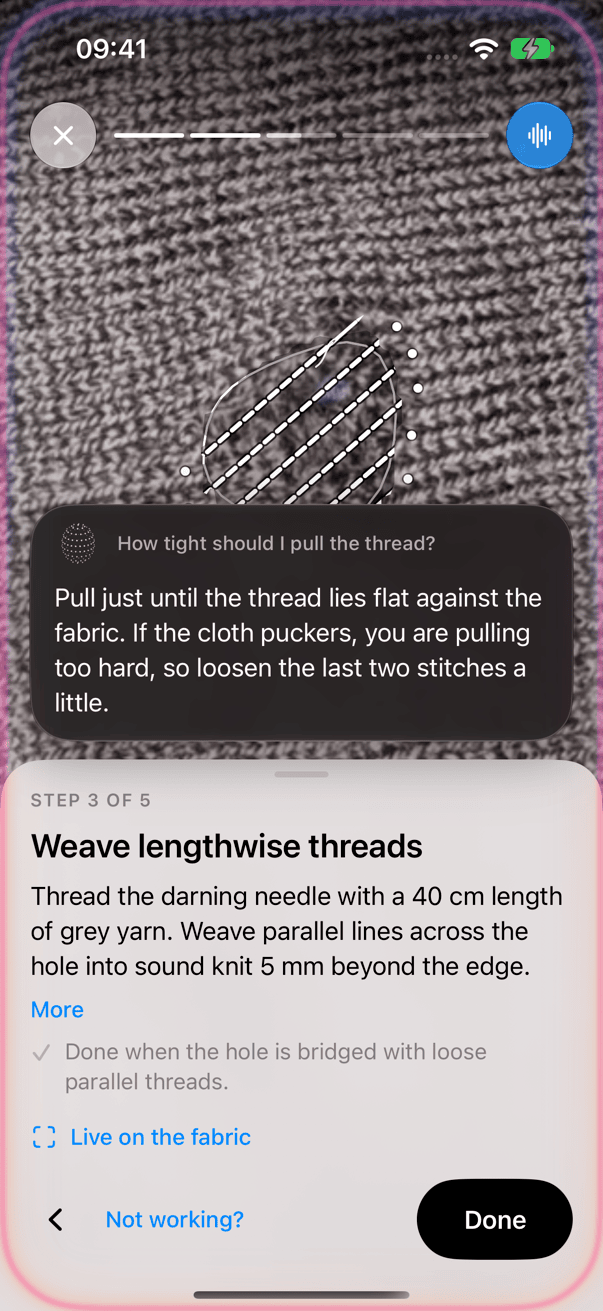
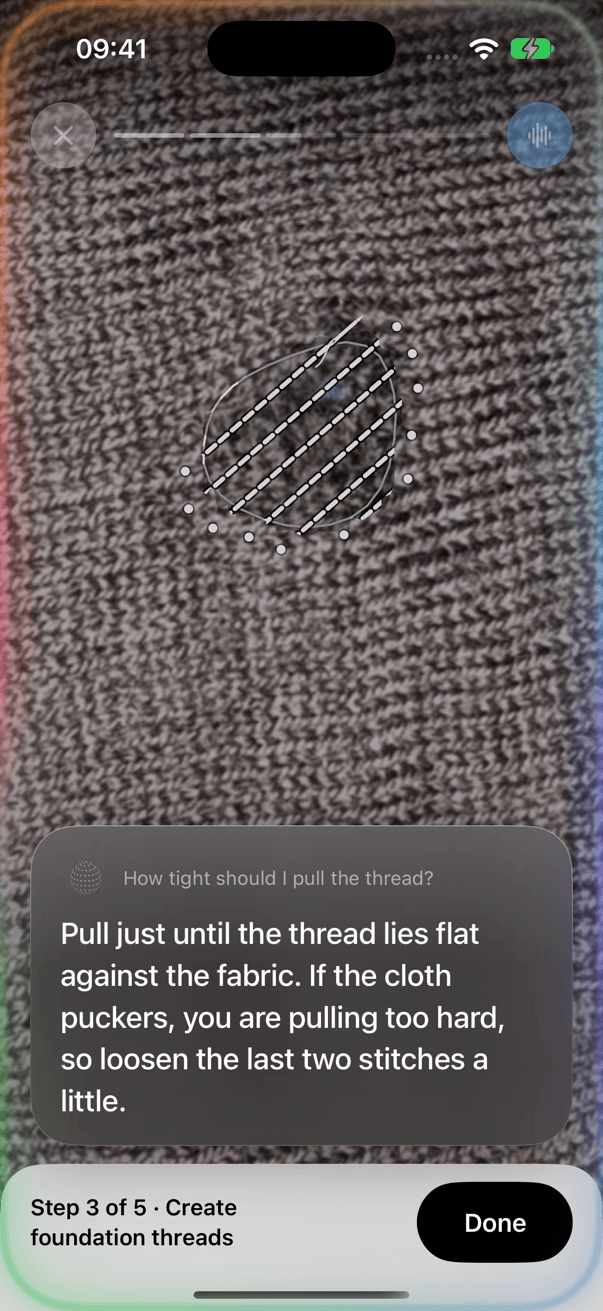
ios: hands-free collapses the guide panel into an opaque bar and keeps the voice UI clear of the work area (VoiceLayout)

diff --git a/ios/RepairAssistant/Views/GuideView.swift b/ios/RepairAssistant/Views/GuideView.swift
@@ -32,7 +32,7 @@ struct GuideView: View {
                                 .frame(width: geo.size.width, height: geo.size.height).clipped()
                                 .overlay(alignment: .topTrailing) { previewTag.padding(.top, geo.safeAreaInsets.top + 112).padding(.trailing, Theme.margin) }
                         } else {
-                            photo(step, r, size: geo.size)
+                            photo(step, r, geo: geo)
                         }
                     }
                     .id("\(step.n)-\(showMuse)")
@@ -44,16 +44,25 @@ struct GuideView: View {
                             .frame(height: geo.safeAreaInsets.top + 90).allowsHitTesting(false)
                         Spacer(minLength: 0)
                     }
-                    panel(step, r, bottomInset: geo.safeAreaInsets.bottom, maxHeight: geo.size.height * 0.7)
-                        .id(step.n)
-                        .transition(.opacity)
-                        .opacity(handsFree.isActive ? 0.4 : 1)
-                        .offset(y: handsFree.isActive ? 14 : 0)
-                        .animation(Theme.spring, value: handsFree.isActive)
-                        .overlay(alignment: .top) {
-                            HandsFreeCapsule(model: handsFree, maxHeight: geo.size.height * 0.3)
-                                .alignmentGuide(VerticalAlignment.top) { $0[.bottom] + 12 }
+                    Group {
+                        if handsFree.isActive {
+                            compactBar(step, bottomInset: geo.safeAreaInsets.bottom)
+                                .transition(.move(edge: .bottom).combined(with: .opacity))
+                        } else {
+                            panel(step, r, bottomInset: geo.safeAreaInsets.bottom, maxHeight: geo.size.height * 0.7)
+                                .id(step.n)
+                                .transition(.opacity)
                         }
+                    }
+                    .animation(Theme.spring, value: handsFree.isActive)
+                    if handsFree.isActive {
+                        let lay = voicePlacement(r, geo: geo)
+                        HandsFreeCapsule(model: handsFree, maxHeight: lay.voice.height)
+                            .frame(width: geo.size.width, alignment: .bottom)
+                            .frame(height: lay.voice.height, alignment: .bottom)
+                            .padding(.bottom, geo.size.height - lay.voice.maxY)
+                            .transition(.opacity)
+                    }
                     topArea(step, hasStepImage: stepPhoto != nil, topInset: geo.safeAreaInsets.top)
                         .frame(maxHeight: .infinity, alignment: .top)
                         .opacity(handsFree.isActive ? 0.4 : 1)
@@ -149,10 +158,60 @@ struct GuideView: View {
 
     // MARK: Photo
 
-    private func photo(_ step: GuideStep, _ r: AnalyzeResponse, size: CGSize) -> some View {
-        Group {
+    private static let barContentHeight: CGFloat = 50
+    private static let baseAnchor: CGFloat = 0.33
+
+    private func barHeight(_ geo: FullGeo) -> CGFloat { Self.barContentHeight + 14 + max(geo.safeAreaInsets.bottom, 12) }
+
+    /// The work area on screen at the normal anchor: damage bounds scaled by the zoom, padded for stitch overlay and labels.
+    private func workRect(_ r: AnalyzeResponse, size: CGSize) -> CGRect {
+        let boxes = r.segments.filter(\.isDamage).compactMap(\.normalizedBounds).filter { $0.height > 0 }
+        let cy = size.height * Self.baseAnchor
+        guard let img = flow.photo, let first = boxes.first else { return CGRect(x: 0, y: cy - 90, width: size.width, height: 180) }
+        let u = boxes.dropFirst().reduce(first) { $0.union($1) }
+        let zoom = MarkedPhoto<EmptyView>.targetZoom(image: img, focus: DamageFocus.region(for: r.segments), container: size)
+        let fill = AspectFit.fillSize(content: img.size, in: size)
+        let h = u.height * fill.height * zoom, w = u.width * fill.width * zoom
+        let pad: CGFloat = 44
+        return CGRect(x: (size.width - w) / 2 - pad, y: cy - h / 2 - pad, width: w + 2 * pad, height: h + 2 * pad)
+    }
+
+    private func voicePlacement(_ r: AnalyzeResponse, geo: FullGeo) -> VoiceLayout.Placement {
+        let H = geo.size.height
+        let vh: CGFloat = handsFree.answer != nil ? min(H * 0.34, 270) : 80
+        return VoiceLayout.place(container: geo.size, work: workRect(r, size: geo.size), topReserved: geo.safeAreaInsets.top + 70,
+                                 barTop: H - barHeight(geo), voiceHeight: vh)
+    }
+
+    private func photoAnchor(_ r: AnalyzeResponse, geo: FullGeo) -> CGFloat {
+        let size = geo.size
+        guard handsFree.isActive else { return Self.baseAnchor }
+        return Self.baseAnchor - voicePlacement(r, geo: geo).photoShift / max(size.height, 1)
+    }
+
+    /// Collapsed panel while hands-free is on: opaque, same material, step line and Done only.
+    private func compactBar(_ step: GuideStep, bottomInset: CGFloat) -> some View {
+        let last = index == steps.count - 1
+        return HStack(spacing: 12) {
+            Text("Step \(index + 1) of \(steps.count) · \(step.title)")
+                .font(.subheadline.weight(.semibold)).foregroundStyle(Theme.ink)
+                .lineLimit(2).multilineTextAlignment(.leading)
+            Spacer(minLength: 8)
+            Button { advance(last: last) } label: { Text(last ? "Finish" : "Done").lineLimit(1) }
+                .buttonStyle(PrimaryButtonStyle(kind: .primary))
+                .frame(width: 104)
+        }
+        .frame(height: Self.barContentHeight)
+        .padding(.horizontal, Theme.margin).padding(.top, 14).padding(.bottom, max(bottomInset, 12))
+        .frame(maxWidth: .infinity)
+        .background(.regularMaterial, in: UnevenRoundedRectangle(topLeadingRadius: 28, topTrailingRadius: 28, style: .continuous))
+    }
+
+    private func photo(_ step: GuideStep, _ r: AnalyzeResponse, geo: FullGeo) -> some View {
+        let size = geo.size
+        return Group {
             if let img = flow.photo {
-                MarkedPhoto(image: img, segments: r.segments, mode: .guide, showLabels: false, focus: DamageFocus.region(for: r.segments), zoomable: false, anchorY: 0.33) { sz in
+                MarkedPhoto(image: img, segments: r.segments, mode: .guide, showLabels: false, focus: DamageFocus.region(for: r.segments), zoomable: false, anchorY: photoAnchor(r, geo: geo)) { sz in
                     StepOverlay(step: step, response: r, size: sz, aspect: img.size.width / max(img.size.height, 1), darningPhase: darningPhase(for: step, in: r))
                 }
             } else { Color.black }

diff --git a/ios/RepairAssistant/DesignSystem/ThinkingOrb.swift b/ios/RepairAssistant/DesignSystem/ThinkingOrb.swift
@@ -138,70 +138,44 @@ enum OrbEngine {
     }
 }
 
-/// Luminous dotted orb: the library geometry, dots tinted cyan, violet, magenta by depth and position, over a soft halo.
+/// Dotted orb, painted exactly like the library: matte grayscale dots, z-sorted far to near. On the dark glass the ink
+/// value is mirrored (1 - white) so near dots read bright (core.ts `paint`). No colour, no glow: the original look.
 struct ThinkingOrb: View {
     var state: OrbState = .listening
     /// Rendered edge length in points (the 64 pt geometry is scaled to it).
     var size: CGFloat = 44
     /// Speed multiplier on the library preset (1 = as shipped).
     var tempo: Double = 1
-    /// Microphone level 0...1: scales the orb with a spring.
+    /// Microphone level 0...1: the orb breathes slightly with the voice.
     var level: Float = 0
+    /// Dark substrate (the voice glass is dark in both appearances).
+    var dark = true
     @Environment(\.accessibilityReduceMotion) private var reduceMotion
 
-    private static let cyan = (r: 0.30, g: 0.86, b: 1.00)
-    private static let violet = (r: 0.55, g: 0.45, b: 1.00)
-    private static let magenta = (r: 1.00, g: 0.36, b: 0.75)
-
-    private static func tint(_ u: Double) -> Color {
-        let u = min(1, max(0, u))
-        let (a, b, f) = u < 0.5 ? (cyan, violet, u * 2) : (violet, magenta, (u - 0.5) * 2)
-        return Color(red: a.r + (b.r - a.r) * f, green: a.g + (b.g - a.g) * f, blue: a.b + (b.b - a.b) * f)
-    }
-
     var body: some View {
-        ZStack {
-            // halo and core glow behind the dots
-            Circle()
-                .fill(RadialGradient(colors: [Color(red: 0.55, green: 0.5, blue: 1).opacity(0.55), Color(red: 0.3, green: 0.85, blue: 1).opacity(0.22), .clear],
-                                     center: .center, startRadius: 0, endRadius: size * 0.78))
-                .frame(width: size * 1.6, height: size * 1.6)
-                .blur(radius: size * 0.12)
-            Circle()
-                .fill(RadialGradient(colors: [Color(red: 0.75, green: 0.6, blue: 1).opacity(0.45), .clear], center: .center, startRadius: 0, endRadius: size * 0.36))
-                .frame(width: size * 0.8, height: size * 0.8)
-                .blur(radius: 3)
-            Group {
-                if reduceMotion {
-                    orb(t: OrbEngine.staticTime)
-                } else {
-                    TimelineView(.animation) { tl in
-                        orb(t: tl.date.timeIntervalSinceReferenceDate * OrbEngine.speed(state) * tempo)
-                    }
+        Group {
+            if reduceMotion {
+                orb(t: OrbEngine.staticTime)
+            } else {
+                TimelineView(.animation) { tl in
+                    orb(t: tl.date.timeIntervalSinceReferenceDate * OrbEngine.speed(state) * tempo)
                 }
             }
-            .frame(width: size, height: size)
         }
         .frame(width: size, height: size)
-        .scaleEffect(1 + 0.2 * CGFloat(level))
-        .animation(reduceMotion ? nil : .interpolatingSpring(stiffness: 220, damping: 14), value: level)
+        .scaleEffect(1 + 0.08 * CGFloat(level))
+        .animation(reduceMotion ? nil : .interpolatingSpring(stiffness: 220, damping: 18), value: level)
         .accessibilityHidden(true)
     }
 
     private func orb(t: Double) -> some View {
         Canvas { ctx, canvasSize in
             let k = canvasSize.width / OrbEngine.size
-            ctx.blendMode = .plusLighter
             for d in OrbEngine.frame(state, t: t) {
-                let depth = min(1, max(0, (d.z / 28 + 1) / 2))
-                // position along the diagonal mixes with depth so the colour sweeps across the sphere
-                let pos = ((d.x - 32) + (32 - d.y)) / 90 + 0.5
-                let u = 0.55 * (1 - depth) + 0.45 * pos
-                let r = d.r * 1.25
-                let rect = CGRect(x: (d.x - r) * k, y: (d.y - r) * k, width: r * 2 * k, height: r * 2 * k)
-                let alpha = d.a * (0.45 + 0.55 * depth)
-                ctx.fill(Path(ellipseIn: rect.insetBy(dx: -k * 0.7, dy: -k * 0.7)), with: .color(Self.tint(u).opacity(alpha * 0.28)))
-                ctx.fill(Path(ellipseIn: rect), with: .color(Self.tint(u).opacity(alpha)))
+                let w = min(1, max(0, d.white))
+                let g = dark ? 1 - w : w
+                let rect = CGRect(x: (d.x - d.r) * k, y: (d.y - d.r) * k, width: d.r * 2 * k, height: d.r * 2 * k)
+                ctx.fill(Path(ellipseIn: rect), with: .color(Color(white: g).opacity(d.a)))
             }
         }
     }

diff --git a/ios/RepairAssistant/DesignSystem/HandsFreeOverlay.swift b/ios/RepairAssistant/DesignSystem/HandsFreeOverlay.swift
@@ -191,3 +191,36 @@ struct HandsFreeCapsule: View {
         .accessibilityHint("Double tap to dismiss")
     }
 }
+
+/// Where the voice UI (capsule or answer card) goes while hands-free is on. Rects in screen points, container coordinates.
+/// Rule: the voice UI never intersects the work area (damage, stitch/glue/solder overlay and their labels).
+/// 1. Below the work area and above the collapsed bar if it fits.
+/// 2. Otherwise the photo shifts up (`photoShift`) as far as the top reserve allows.
+/// 3. Otherwise the voice UI moves onto the collapsed bar area (`overBar`) and the photo shifts up so the work stays clear of it.
+enum VoiceLayout {
+    struct Placement: Equatable {
+        var voice: CGRect
+        var photoShift: CGFloat
+        var overBar: Bool
+        /// The work rect after the photo shift.
+        var work: CGRect
+    }
+
+    static func place(container: CGSize, work: CGRect, topReserved: CGFloat, barTop: CGFloat, voiceHeight: CGFloat, gap: CGFloat = 12, margin: CGFloat = 20) -> Placement {
+        let width = container.width - 2 * margin
+        let maxShift = max(0, work.minY - topReserved)
+        func result(_ rect: CGRect, _ shift: CGFloat, _ over: Bool) -> Placement {
+            Placement(voice: rect, photoShift: shift, overBar: over, work: work.offsetBy(dx: 0, dy: -shift))
+        }
+        // 1 / 2: above the bar
+        let top = barTop - gap - voiceHeight
+        let needed = max(0, work.maxY + gap - top)
+        if needed <= maxShift {
+            return result(CGRect(x: margin, y: top, width: width, height: voiceHeight), needed, false)
+        }
+        // 3: over the bar area, photo up so the work ends above it
+        let barRect = CGRect(x: margin, y: barTop + 6, width: width, height: max(0, min(voiceHeight, container.height - barTop - 12)))
+        let shift = min(maxShift, max(0, work.maxY + gap - barRect.minY))
+        return result(barRect, shift, true)
+    }
+}

diff --git a/ios/RepairAssistantTests/VoiceLayoutTests.swift b/ios/RepairAssistantTests/VoiceLayoutTests.swift
@@ -1,0 +1,16 @@
+import XCTest
+@testable import RepairAssistant
+
+final class VoiceLayoutTests: XCTestCase {
+    func testVoiceNeverIntersectsWorkArea() {
+        let c = CGSize(width: 402, height: 874)
+        let barTop: CGFloat = c.height - 100
+        let sizes: [CGSize] = [CGSize(width: 70, height: 70), CGSize(width: 150, height: 160), CGSize(width: 300, height: 300)]
+        let ys: [CGFloat] = [0.25, 0.5, 0.75].map { $0 * c.height }
+        for s in sizes { for cy in ys { for vh in [CGFloat(76), 260] {
+            let work = CGRect(x: (c.width - s.width) / 2, y: cy - s.height / 2, width: s.width, height: s.height)
+            let p = VoiceLayout.place(container: c, work: work, topReserved: 130, barTop: barTop, voiceHeight: vh)
+            XCTAssertFalse(p.voice.intersects(p.work), "size \(s) cy \(cy) vh \(vh): \(p)")
+        } } }
+    }
+}

diff --git a/ios/RepairAssistant/DesignSystem/MarkedPhoto.swift b/ios/RepairAssistant/DesignSystem/MarkedPhoto.swift
@@ -176,9 +176,9 @@ private struct ZoomedStage<Overlay: View>: View, @preconcurrency Animatable {
     let onTap: ((CGPoint) -> Void)?
     @ViewBuilder var overlay: (CGSize) -> Overlay
 
-    var animatableData: CGFloat {
-        get { zoom }
-        set { zoom = newValue }
+    var animatableData: AnimatablePair<CGFloat, CGFloat> {
+        get { AnimatablePair(zoom, anchorY) }
+        set { zoom = newValue.first; anchorY = newValue.second }
     }
 
     var body: some View {
